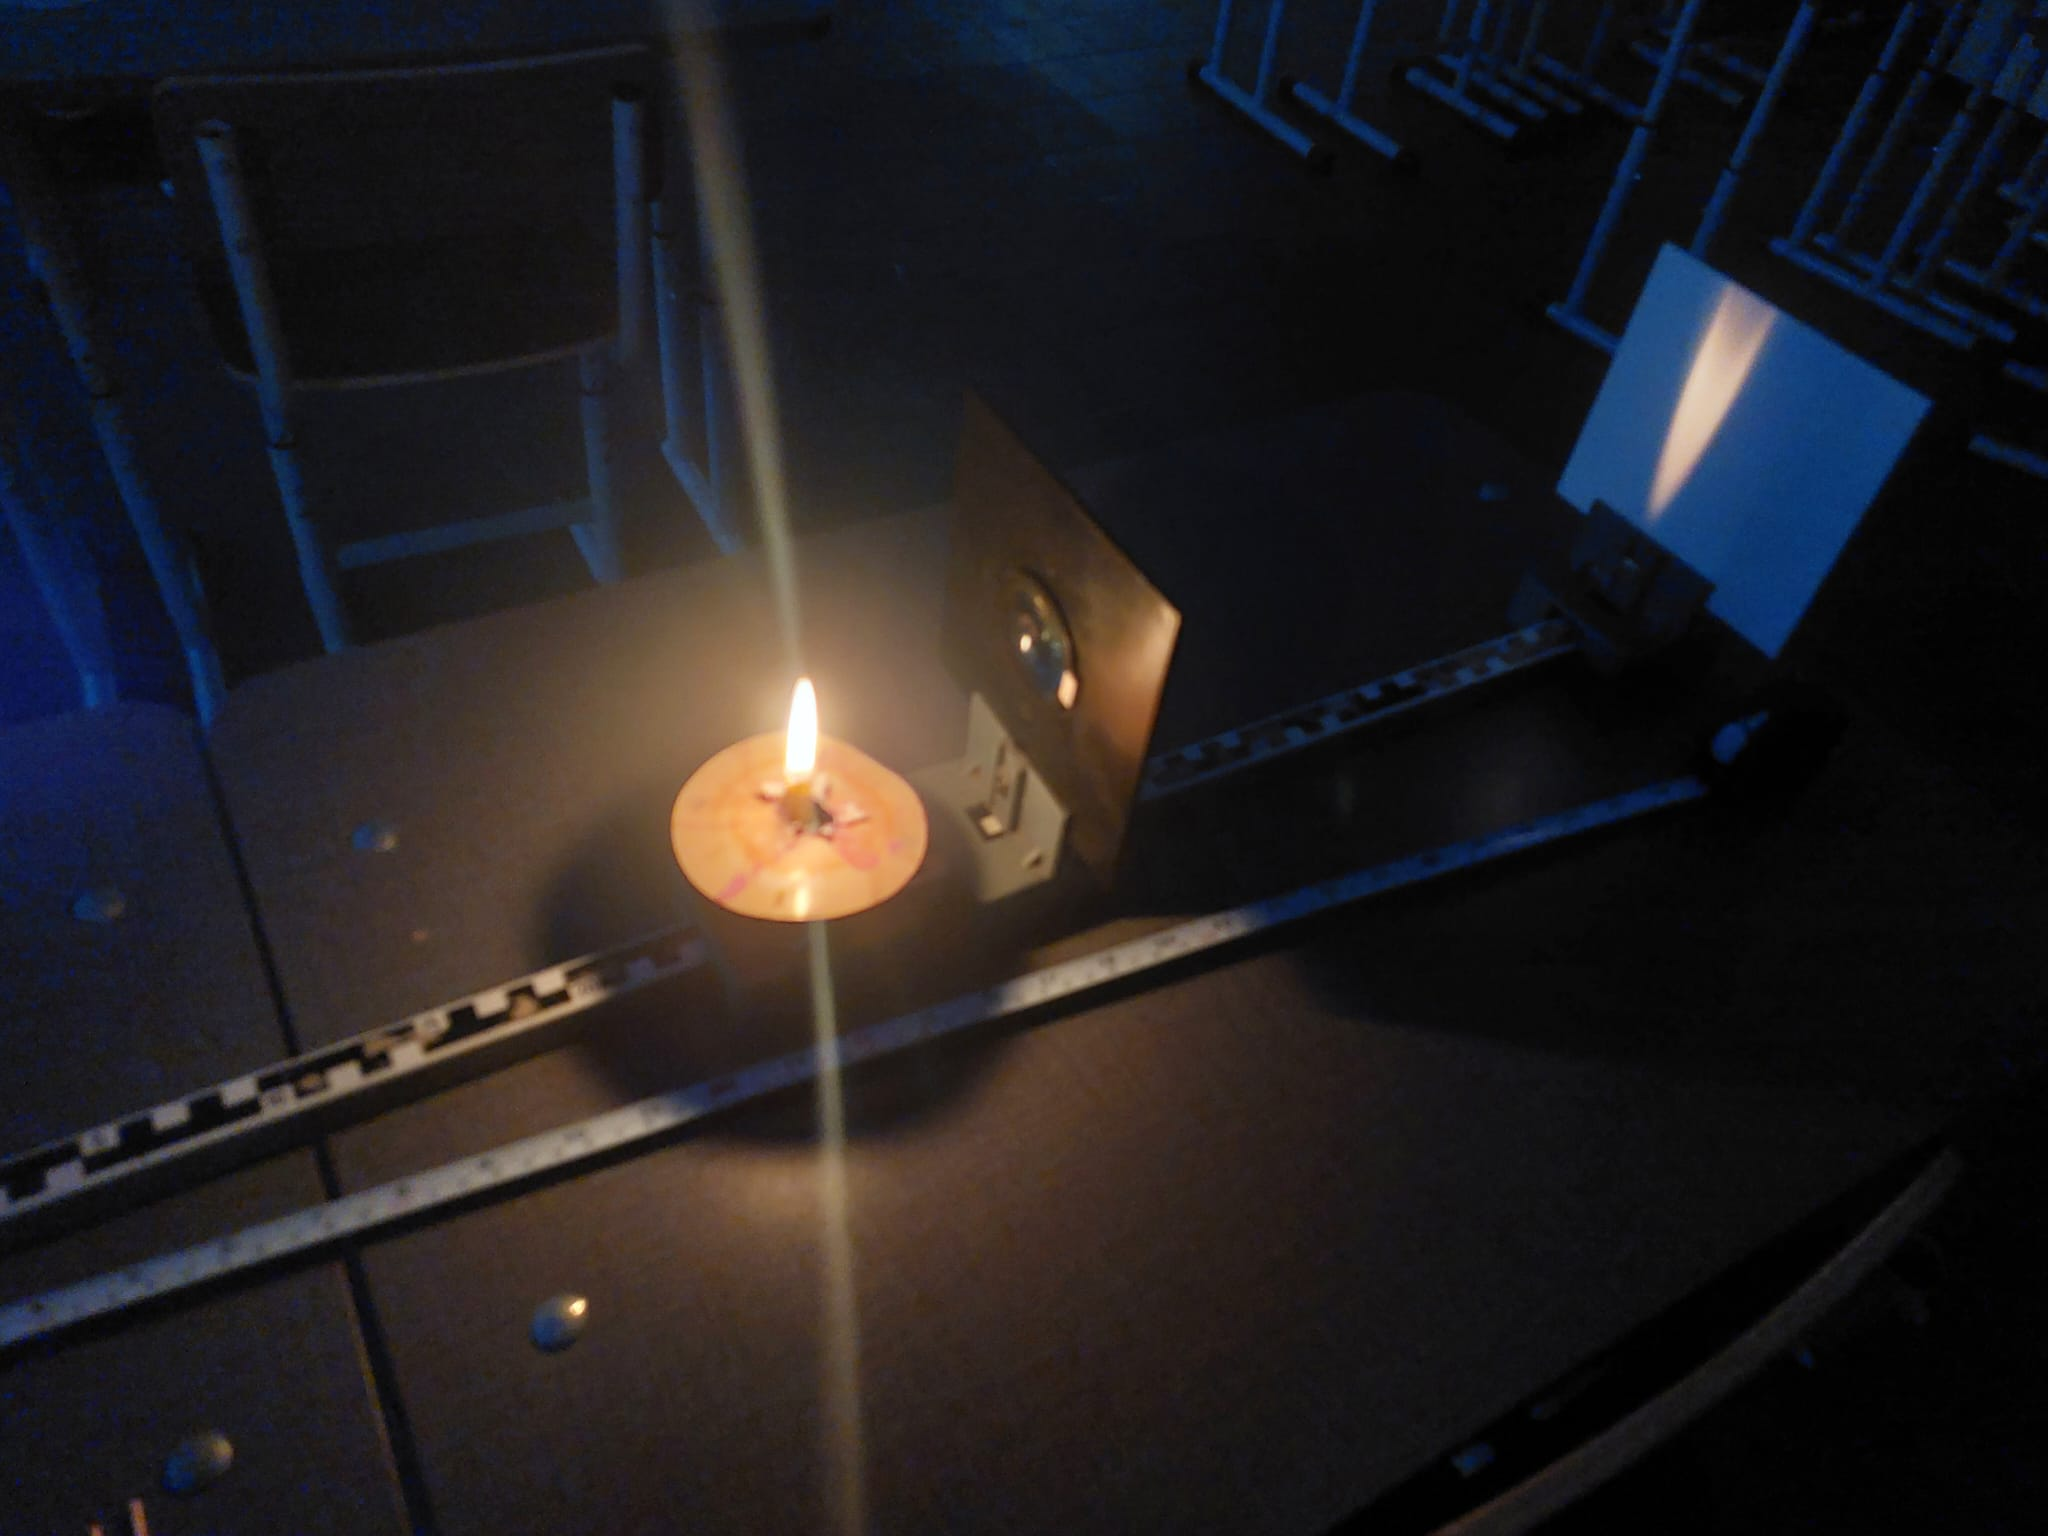
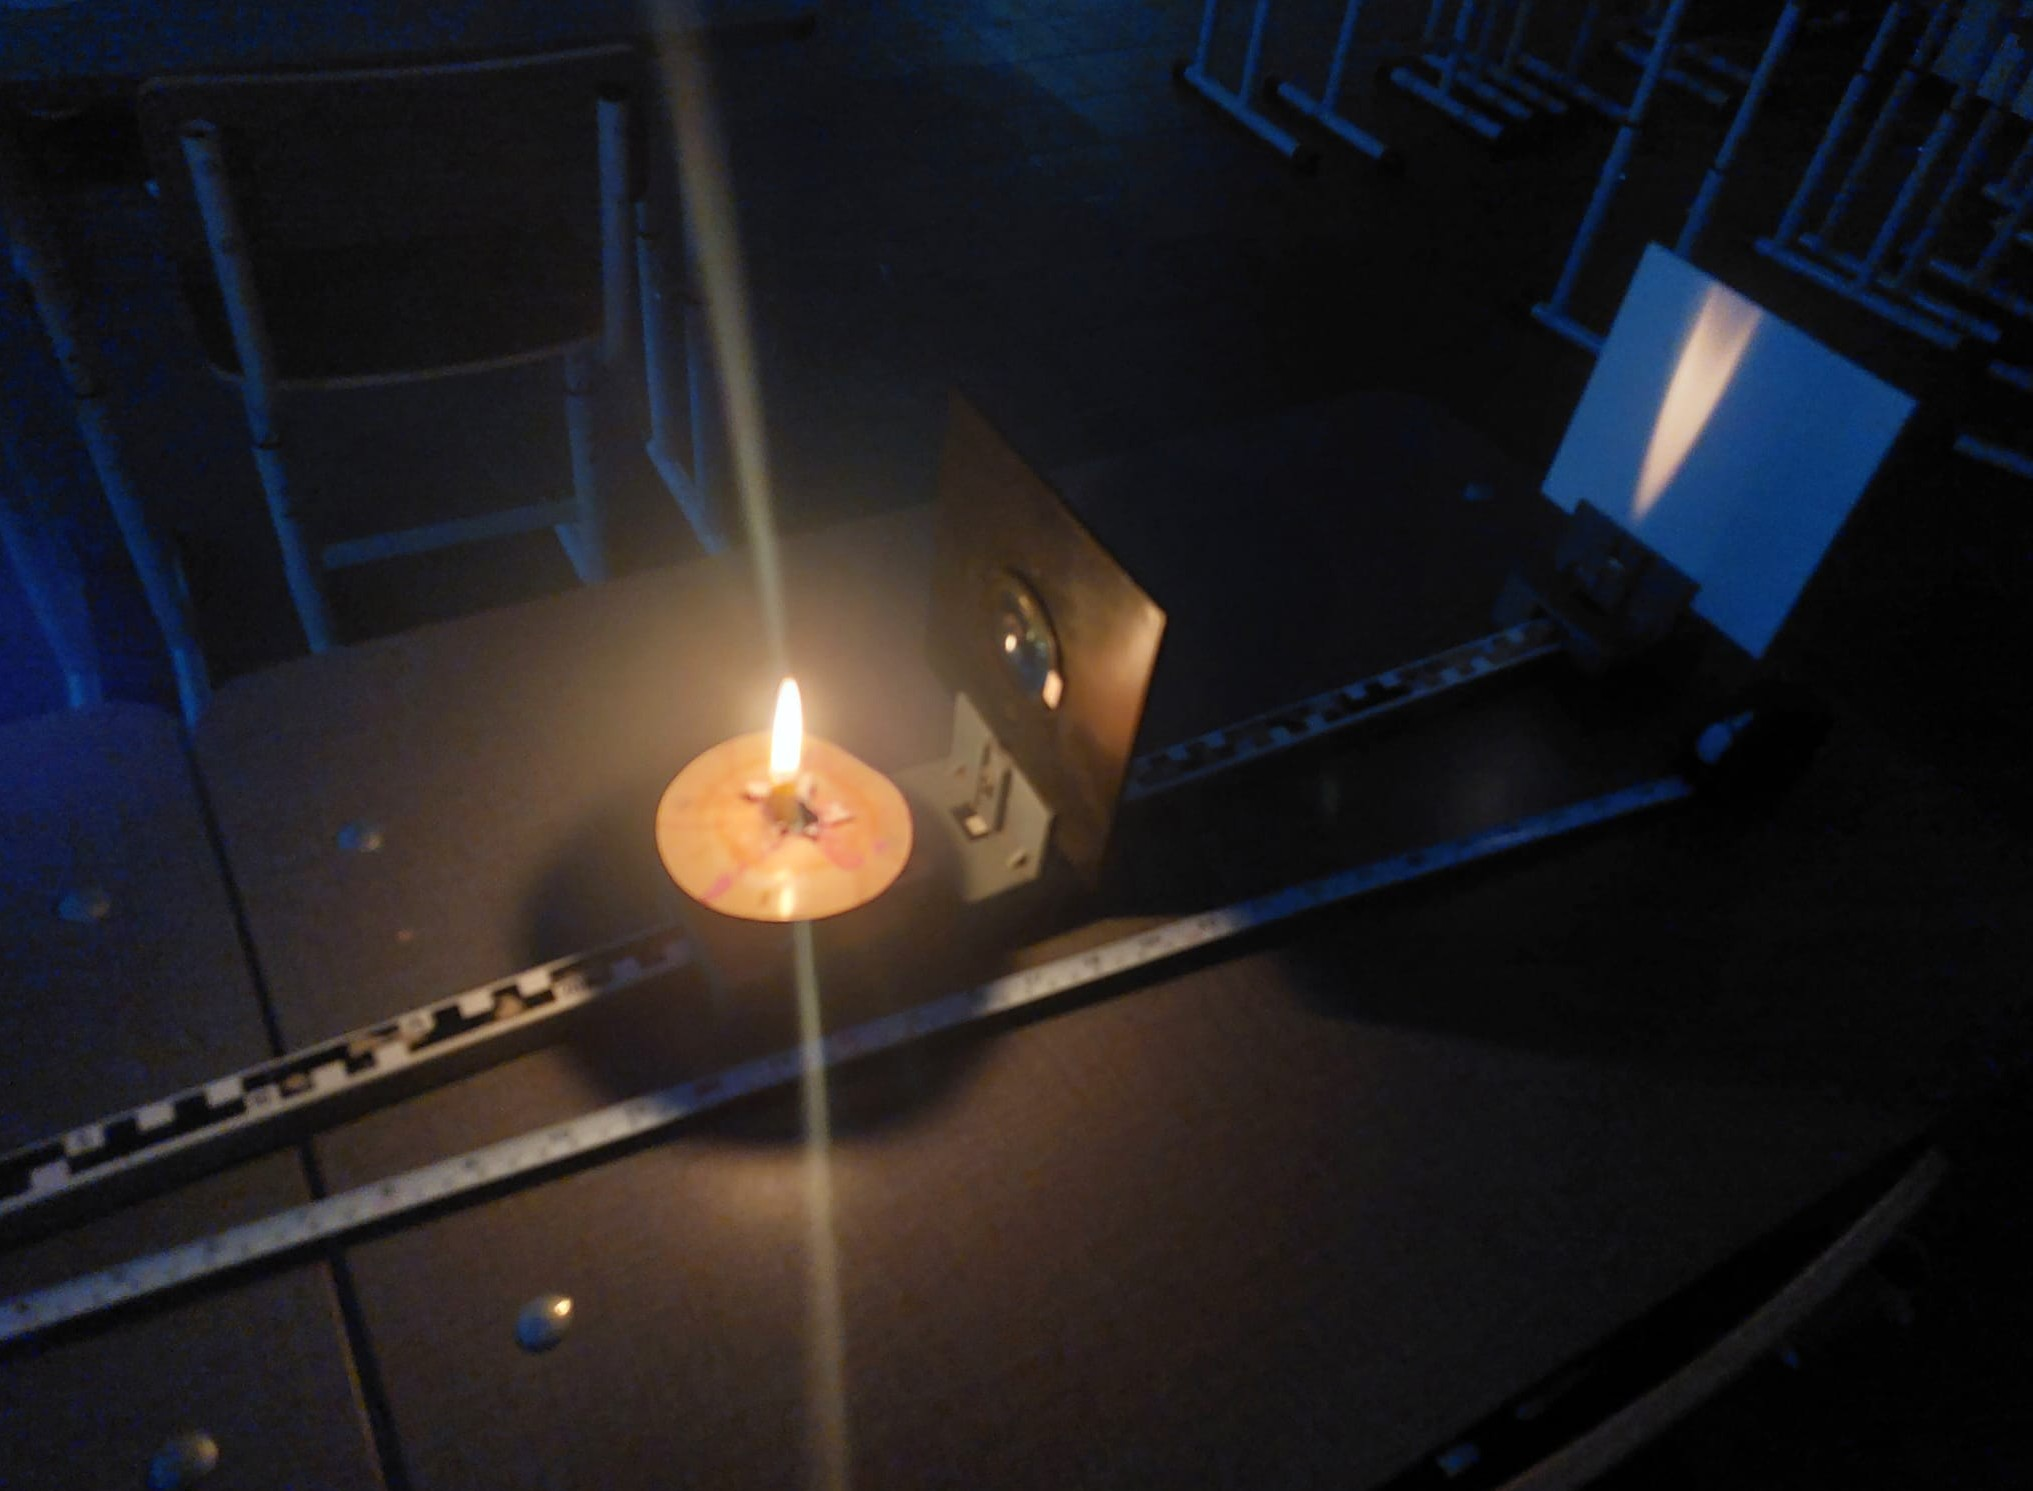
Adaugat imagini/videoclipuri, simulari de lab si descrieri ramase

diff --git a/js/projects.js b/js/projects.js
@@ -47,7 +47,7 @@ const projects = [
     ],
     materialStudiu: {
       label: "Fișă de laborator",
-      docxFile: "../assets/lucrari-lab/Deteminare constanta elastica.doc",
+      docxFile: "../assets/lucrari-lab/Determinare constanta elastica resort.doc",
     },
   },
   {
@@ -71,7 +71,7 @@ const projects = [
     ],
     media: [
       {
-            label: "Exemplu MRU",
+            label: "Exemplu Miscare Rectiline Uniforma in Ulei",
             src: "../assets/inregistrari/Miscarea uniforma.mp4", 
         },
     ],
@@ -202,7 +202,28 @@ const projects = [
       String.raw`\theta_i = \theta_r`,
       String.raw`n_1 \sin\theta_1 = n_2 \sin\theta_2`,
     ],
-    media: [],
+    media: [
+        {
+            label: "Exemplu reflexie",
+            src: "../assets/poze/reflexie1.jpg", 
+        },
+        {
+            label: "Exemplu reflexie",
+            src: "../assets/poze/reflexie2.jpg", 
+        },
+        {
+            label: "Exemplu refractie",
+            src: "../assets/poze/refractia1.jpg", 
+        },
+        {
+            label: "Exemplu reflexie + refractie",
+            src: "../assets/poze/refractie4.jpg", 
+        },
+        {
+            label: "Exemplu reflexie + refractie",
+            src: "../assets/poze/refractie4.jpg", 
+        },
+    ],
     materialStudiu: {
       label: "Fișă de laborator",
       docxFile: "../assets/lucrari-lab/Studiul reflexiei luminii.docx",
@@ -230,20 +251,16 @@ const projects = [
     ],
     media: [
       {
-            label: "Exemplu forta frecare pe plan inclinat",
-            src: "../assets/poze/reflexie1.jpg", 
+            label: "Exemplu compunerea fortelor paralele",
+            src: "../assets/poze/compFortelorParalele1.jpg", 
         },
       {
-            label: "Exemplu forta frecare pe plan inclinat",
-            src: "../assets/poze/reflexie2.jpg", 
+            label: "Exemplu compunerea fortelor paralele",
+            src: "../assets/poze/compFortelorParalele2.jpg", 
         },
       {
-            label: "Exemplu forta frecare pe plan inclinat",
-            src: "../assets/poze/refractie1.jpg", 
-        },
-      {
-            label: "Exemplu forta frecare pe plan inclinat",
-            src: "../assets/poze/refractie2.jpg", 
+            label: "Exemplu compunerea fortelor paralele",
+            src: "../assets/poze/compFortelorParalele3.jpg", 
         },
     ],
     materialStudiu: {
@@ -269,9 +286,13 @@ const projects = [
       String.raw`R^2 = F_1^2 + F_2^2 + 2F_1F_2\cos\theta`,
     ],
     media: [
-      {
+        {
             label: "Exemplu compunerea fortelor cu regula paralelogramului",
             src: "../assets/poze/paralelogram.jpg", 
+        },
+        {
+            label: "Exemplu compunerea fortelor cu regula paralelogramului",
+            src: "../assets/poze/paralelogram (2).jpg", 
         },
     ],
     materialStudiu: {
@@ -304,54 +325,75 @@ const projects = [
   },
   {
     id: "det-dist-focale",
-    title: "Determinarea distanței focale a unui lentilă convergentă",
-    subtitle: "Metoda distanței focale",
-    summary: "Simulare interactivă pentru studiul formării imaginilor de către o lentilă convergentă și determinarea distanței focale.",
-    engine: "matter.js",
+    title: "Determinarea distanței focale a unei lentile",
+    subtitle: "Studiul formării imaginilor și construcția de raze",
+    summary: "Simulare interactivă bazată pe HTML5 Canvas pentru vizualizarea traiectoriei razelor de lumină prin lentile convergente și divergente, permițând verificarea experimentală a formulelor optice.",
+    engine: "canvas2d",
     topic: "Optică (clasa a 9-a)",
     caleSimulare: caleRelativaSimulare.det_d_f,
     descriereProiect: `
-      <p class="mb-3">Această simulare reproduce experimentul de laborator pentru determinarea randamentului mecanic al planului înclinat în cazul ridicării uniforme a unui corp prin intermediul unui scripete.</p>
+      <p class="mb-3">Această simulare interactivă redă grafic parcursul razelor de lumină (trasare de raze) printr-o lentilă subțire, oferind suport vizual atât pentru <strong>Metoda directă</strong> de determinare a distanței focale, cât și pentru înțelegerea proprietăților imaginilor.</p>
 
-      <p class="mb-3">Corpul paralelipipedic m₁ este tras pe planul înclinat de greutatea suspendată m₂ prin intermediul unui fir trecut peste un scripete ideal. Simularea permite modificarea unghiului planului, a maselor și a coeficientului de frecare pentru observarea influenței acestora asupra mișcării și randamentului.</p>
+      <p class="mb-3">Prin modificarea distanței obiectului (d) și a distanței focale (f), aplicația construiește automat cele trei raze fundamentale:</p>
+      <ul class="mb-3">
+        <li><span style="color: orange;"><strong>Raza paralelă:</strong></span> Vine paralel cu axa optică și trece (sau pare că pleacă) prin focarul imagine.</li>
+        <li><span style="color: purple;"><strong>Raza centrală:</strong></span> Trece optic nedeviată prin centrul lentilei (O).</li>
+        <li><span style="color: teal;"><strong>Raza prin focar:</strong></span> Trece prin focarul obiect și părăsește lentila paralel cu axa optică.</li>
+      </ul>
 
-      <p class="mb-0">Sunt calculate automat lucrul mecanic util, lucrul mecanic consumat și randamentul planului înclinat pentru fiecare determinare experimentală.</p>
+      <p class="mb-0">Simularea calculează instantaneu poziția imaginii (d'), mărirea liniară (m) și caracterul imaginii (reală/răsturnată sau virtuală/dreaptă), oferind un mediu ideal pentru completarea fișei de laborator.</p>
     `,
     ipoteze: [
-      "Firul este ideal.",
-      "Scripetele este ideal.",
-      "Forța de frecare la alunecare este constantă.",
-      "Mișcarea are loc pe direcția planului înclinat.",
+      "Lentila este considerată subțire, iar refracția este idealizată în planul central al acesteia.",
+      "Mediul în care se află lentila este omogen și transparent (aer)."
     ],
     obiective: [
-      "Să determin randamentul mecanic al planului înclinat.",
-      "Să observ influența frecării asupra mișcării.",
-      "Să compar lucrul mecanic util cu lucrul mecanic consumat.",
-      "Să analizez dependența randamentului de unghiul planului."
+      "Să înțeleg modul de construcție geometrică a imaginilor folosind razele de lumină fundamentale.",
+      "Să determin distanța focală a lentilei folosind formula punctelor conjugate (formula lentilelor subțiri).",
+      "Să analizez dependența tipului de imagine (reală/virtuală, mărită/micșorată) de poziția obiectului față de focar.",
+      "Să compar rezultatele obținute prin calcule matematice cu cele generate vizual de simulare."
     ],
     equations: [
-      String.raw`L_u = G_1 h`,
-      String.raw`L_c = G_2 l`,
-      String.raw`\eta = \frac{L_u}{L_c} \cdot 100`,
-      String.raw`F_f = \mu N`,
-      String.raw`F_{net} = G_2 - G_1 \sin\alpha - F_f`,
+      String.raw`\frac{1}{x_2} - \frac{1}{x_1} = \frac{1}{f}`,
+      String.raw`d' = \frac{f \cdot d}{d - f})`,
+      String.raw`m = -\frac{d'}{d}`
     ],
     media: [
         {
-            label: "Exemplu de tabel pentru notițe",
-            src: "../assets/IMG-20260515-WA0036.jpg",
+            label: "Exemplu lentile",
+            src: "../assets/poze/lentile2.jpg",
         },
+        {
+            label: "Exemplu lentile",
+            src: "../assets/poze/lentile3.jpg",
+        },
+        {
+            label: "Exemplu lentila convergentă",
+            src: "../assets/poze/lentile5.jpg",
+        },
+        {
+            label: "Exemplu lentilă divergentă",
+            src: "../assets/poze/lentile4.jpg",
+        },
+        {
+            label: "Video lentilă convergentă",
+            src: "../assets/inregistrari/lentile1.mp4",
+        },
+        {
+            label: "Video lentilă divergentă",
+            src: "../assets/inregistrari/lentile2.mp4",
+        }
     ],
     materialStudiu: {
       label: "Fișă de laborator",
-      docxFile: "../assets/lucrari-lab/Randamentul planului inclinat.doc",
+      docxFile: "../assets/lucrari-lab/Determinarea distanței focale a unei lentile.docx",
     },
   },
   {
     id: "randament",
-    title: "Determinarea radnamentului pe plan înclinat",
+    title: "Determinarea randamentului pe plan înclinat",
     subtitle: "Randamentul mecanic al planului înclinat",
-    summary: "-",
+    summary: "Simulare interactivă pentru determinarea randamentului mecanic al unui plan înclinat folosind un sistem cu scripete și greutate suspendată, permițând observarea efectelor frecării și calcularea lucrului mecanic util și consumat.",
     engine: "matter.js",
     topic: "Mecanică",
     caleSimulare: caleRelativaSimulare.rand_plan_inclinat,
@@ -390,31 +432,6 @@ const projects = [
     materialStudiu: {
       label: "Fișă de laborator",
       docxFile: "../assets/lucrari-lab/Randamentul planului inclinat.doc",
-    },
-  },
-  {
-    id: "simulare-ulei",
-    title: "Miscare rectilinie uniformă în ulei",
-    subtitle: "Miscare rectilinie uniformă într-un fluid",
-    summary: "Demonstrație educațională a mișcării rectilinii uniforme pentru un corp supus unei forțe constante și frecării într-un fluid.",
-    engine: "matter.js",
-    topic: "Fluide (simplu)",
-    caleSimulare: caleRelativaSimulare.ulei,
-    descriereProiect: `
-      <p class="mb-3">Această simulare prezintă mișcarea rectilinie uniformă a unui corp într-un mediu cu frecare. Elevii și profesorii pot observa cum corpul atinge o viteză constantă atunci când forța de tracțiune este echilibrată de forța de frecare.</p>
-    
-    `,
-    ipoteze: ["Forța de frecare este proporțională cu viteza.", "Forța aplicată este constantă și orientată în aceeași direcție cu mișcarea."],
-    obiective: ["Să înțeleagă conceptul de mișcare rectilinie uniformă.", "Să observe când și de ce viteza devine constantă într-un fluid."],
-    equations: [
-      String.raw`F_f = -kv`,
-      String.raw`F_{aplicată} + F_f = 0`,
-      String.raw`v = \text{constanta}`,
-    ],
-    media: [],
-    materialStudiu: {
-      label: "Fișă de laborator",
-      docxFile: "../assets/lucrari-lab/Studiu miscarea rectilinie uniforma.docx",
     },
   },
 ];

diff --git a/index.html b/index.html
@@ -23,24 +23,6 @@
       <header class="hero-index">
         <p class="mono-heading text-[0.65rem] uppercase tracking-[0.2em] text-[var(--accent)]">Portofoliu</p>
         <h1>Simulari de fizica</h1>
-        <p class="lead">
-          Alege o simulare. Ruleaza proiectul printr-un server local din folderul care contine toate simulările (ProiectFizica + celelalte),
-          ca iframe-urile sa se incarce corect.
-        </p>
-        <div class="stat-uri">
-          <div class="stat-box">
-            <div class="k">Dosare</div>
-            <div class="v">06</div>
-          </div>
-          <div class="stat-box">
-            <div class="k">Simulari</div>
-            <div class="v">05</div>
-          </div>
-          <div class="stat-box">
-            <div class="k">Slot gol</div>
-            <div class="v">01</div>
-          </div>
-        </div>
       </header>
 
       <section>

diff --git a/Ff_Plan_Orizontal/sketch.js b/Ff_Plan_Orizontal/sketch.js
@@ -34,7 +34,8 @@ Composite.add(engine.world, [ground, support, block, hanging]);
 Render.run(render);
 Runner.run(Runner.create(), engine);
 
-let velocity = 1.2, dist = 0;
+const initialVelocity = 1.2;
+let velocity = initialVelocity, dist = 0;
 
 Events.on(engine, "beforeUpdate", function() {
   dist += velocity;
@@ -42,6 +43,17 @@ Events.on(engine, "beforeUpdate", function() {
   Body.setPosition(hanging, { x: pulleyX, y: groundY + 130 + dist });
   if (block.position.x >= pulleyX - 70) velocity = 0;
 });
+
+// reset button logic
+const resetBtn = document.getElementById("reset");
+if (resetBtn) {
+  resetBtn.onclick = function() {
+    dist = 0;
+    velocity = initialVelocity;
+    Body.setPosition(block, { x: startX, y: groundY });
+    Body.setPosition(hanging, { x: pulleyX, y: groundY + 130 });
+  };
+}
 
 function drawArrow(x1, y1, x2, y2, color) {
   let a = Math.atan2(y2 - y1, x2 - x1);

diff --git a/project.html b/project.html
@@ -30,16 +30,12 @@
       <header class="panou">
         <h1 id="project-title" class="titlu-proiect mono-heading">Titlu</h1>
         <p id="project-subtitle" class="subtitlu-proiect">Subtitlu</p>
-        <p class="mono-heading mt-3 text-[0.7rem] text-[var(--text-sobit)]">
-          Ultima actualizare: <span id="last-updated">—</span>
-        </p>
         <div class="meta-proiect" id="project-tags"></div>
       </header>
 
       <section class="etapa-sim" aria-label="Zona simulare">
         <div class="etapa-sim__antet">
-          <h2>Vizualizare integrata</h2>
-          <span class="tag-tehnic" id="sim-tech-label">iframe · acelasi server</span>
+          <h2>Simulare interactiva</h2>
         </div>
         <div id="simulation-mount" class="sim-mount"></div>
       </section>

diff --git a/Ff_Plan_Orizontal/index.html b/Ff_Plan_Orizontal/index.html
@@ -15,6 +15,7 @@
     Suprafață în contact: lemn / lemn<br>
     Greutatea corpului tras: G₁ = 1.32 N<br>
     Greutatea corpului suspendat: G₂ = 0.23 N<br><br>
+    <button type="button" id="reset">Reset</button>
   </div>
   <div id="sim-container"></div>
   <script src="sketch.js"></script>

diff --git a/server.py b/server.py
@@ -1,7 +1,7 @@
 from http.server import HTTPServer, SimpleHTTPRequestHandler
 from functools import partial
 
-DIRECTORY = r"D:\PH"
+DIRECTORY = r"C:\Users\progold\Desktop\PH"
 
 Handler = partial(SimpleHTTPRequestHandler, directory=DIRECTORY)
 